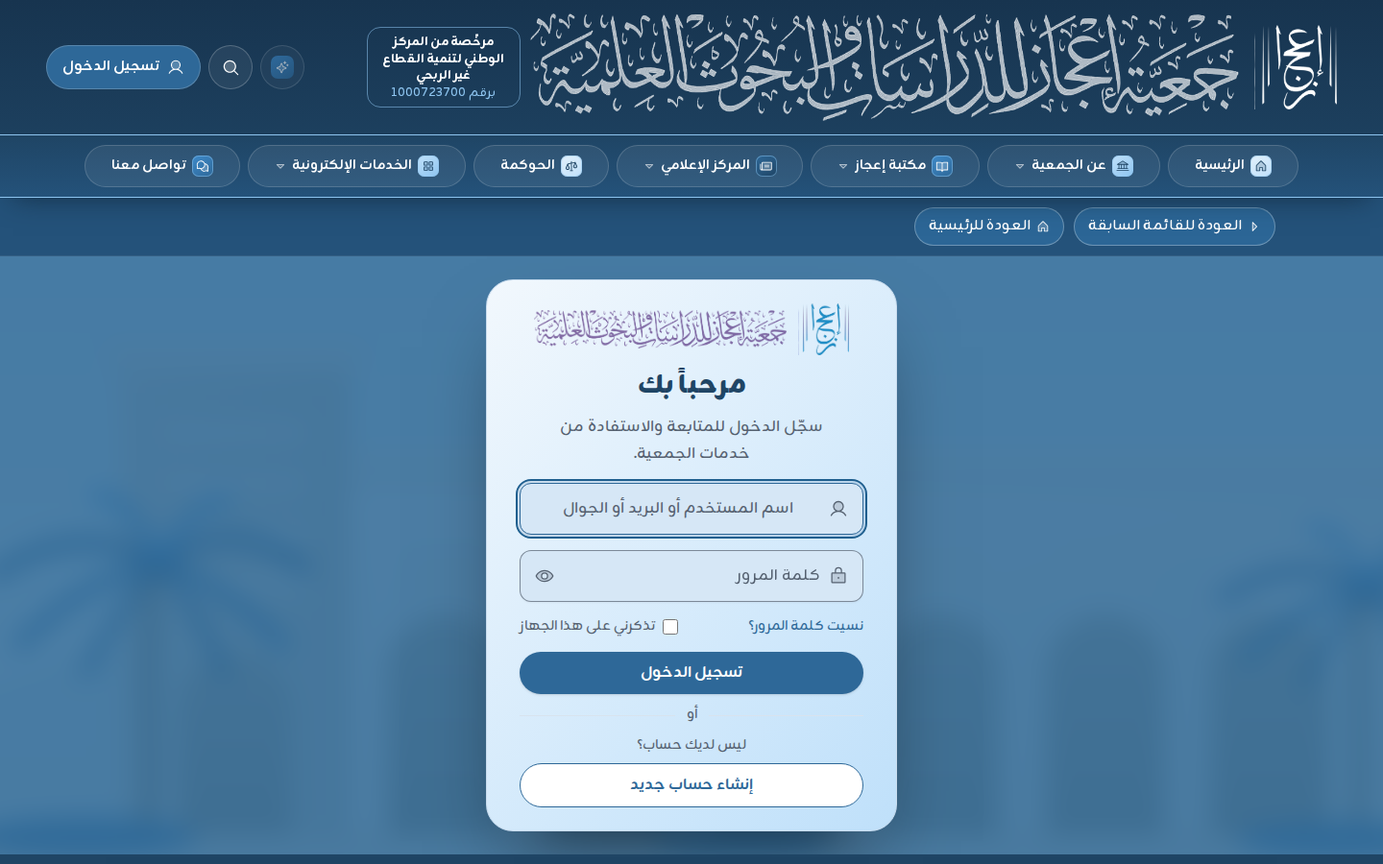
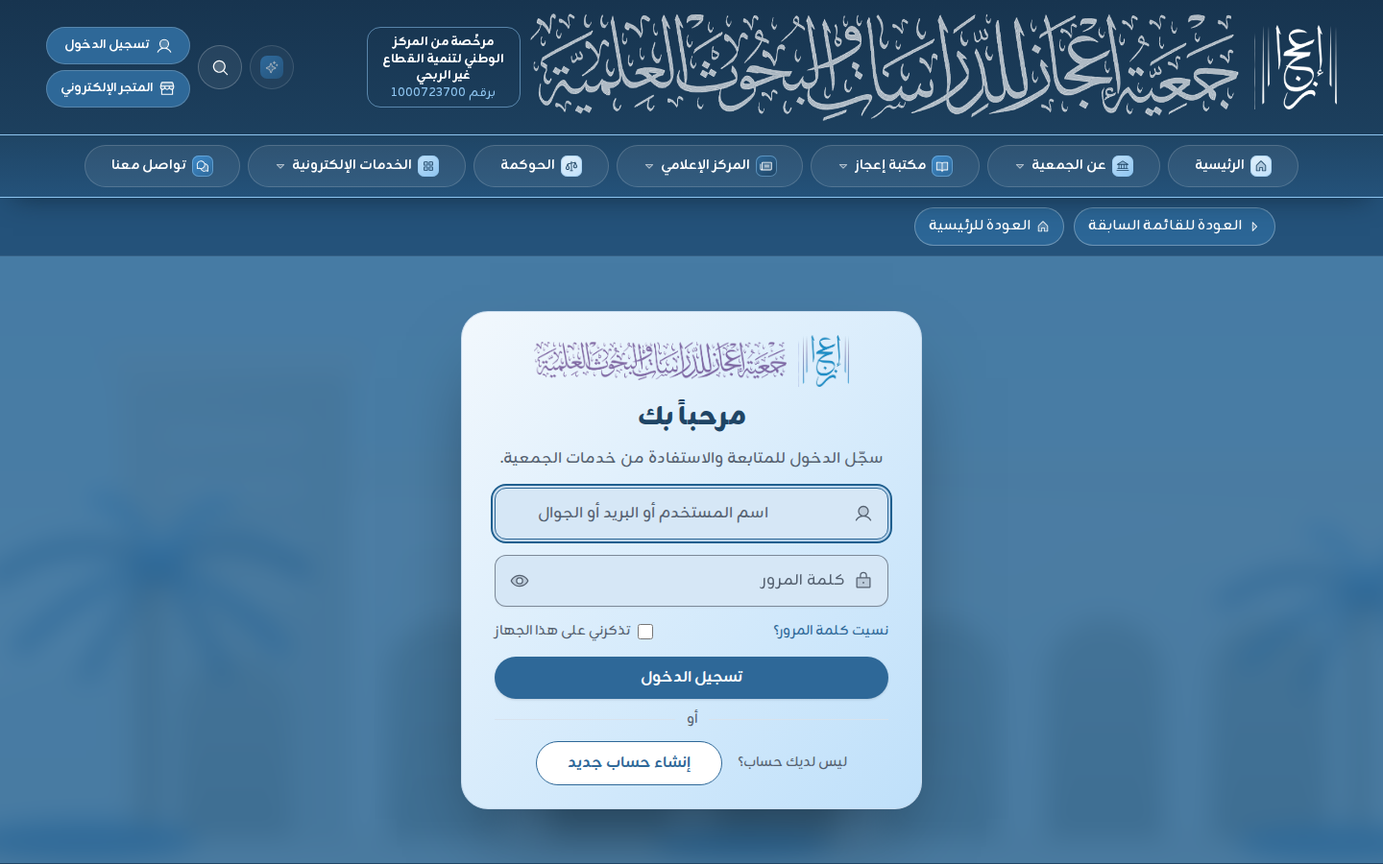
fix(ui): supervisor review of #181 (C1, I1-I3, lows), after merging main
- C1: initiatives come from the About anchors seeder (#177) alone; MenuSections::about removed.
- I1: browser specs follow the new programmes bar and initiatives placement.
- I2: decisions.md and roadmap.md back to main; the decision file holds it all.
- I3: the auth card is centred in the space under the header, fits 1366x768 (no card logo on
  short screens, wider card, inline sign-up row).
- L1 301 for /programs?page=N, L3 hide empty types with one empty state, L4 @navigate and
  sr-only type on "view all", L5 drop the unused initiatives label and fix the comment, L7 exact
  PER_SECTION test.

Changed region(s): [[0.0, 0.3111, 1.0, 1.0], [0.0312, 0.0311, 0.2188, 0.1244]]

diff --git a/resources/css/concept.css b/resources/css/concept.css
@@ -3628,3 +3628,28 @@ html[data-reveal-ready] .portal-chart-line {
         padding-top: 0.75rem;
     }
 }
+
+/* بطاقة الدخول والتسجيل في منتصف المساحة تحت الرأس على الحاسوب (ملاحظات المدير التنفيذي، 4 نوفمبر 2026 — مراجعة المشرف على #181، I3):
+   الرأس وشريط العودة نحو 16.75rem (261 بكسل على 1366 و267 على 1440)، فالمسرح بارتفاع ما بقي من الشاشة والبطاقة في وسطه. وعلى
+   الشاشة القصيرة (1366×768) يُخفى شعار البطاقة وحده، والشعار في الرأس فوقها، فتبقى البطاقة كلها في الشاشة */
+@media (min-width: 64rem) {
+    .auth-stage {
+        display: flex;
+        align-items: center;
+        min-height: calc(100svh - 16.75rem);
+    }
+
+    .auth-stage > div {
+        flex: 1;
+    }
+}
+
+@media (min-width: 64rem) and (max-height: 52rem) {
+    .auth-stage [data-auth-logo] {
+        display: none;
+    }
+
+    .auth-stage [data-auth-card] h1 {
+        margin-top: 0;
+    }
+}

diff --git a/tests/Feature/DirectorNotes/DirectorNotesNov4Test.php b/tests/Feature/DirectorNotes/DirectorNotesNov4Test.php
@@ -8,6 +8,8 @@ use App\Models\ProgramType;
 use App\Support\ContentCache;
 use App\Support\MenuLink;
 use App\Support\MenuSections;
+use Database\Seeders\AboutMenuAnchorsSeeder;
+use Database\Seeders\MenuSeeder;
 use Database\Seeders\ProgramTypesSeeder;
 
 /*
@@ -21,51 +23,69 @@ it('draws one icon bar on the programs page: each type jumps to its section on t
     $types = ProgramType::query()->ordered()->get();
     Program::factory()->for($types[0], 'type')->create(['title' => 'دورة أولى']);
     Program::factory()->for($types[1], 'type')->create(['title' => 'مجلس أول']);
+    Program::factory()->unpublished()->for($types[2], 'type')->create(['title' => 'كتاب غير منشور']);
 
     $html = (string) $this->get('/programs')->assertOk()->getContent();
     $bar = (string) str($html)->after('data-programs-bar')->before('</nav>');
 
-    // الشريط: مرساة لكل نوع بترتيب اللوحة، بلا تحميل صفحة (لا wire:navigate)، ثم المسابقات إلى صفحتها
+    // الشريط: مرساة لكل نوع فيه برنامج منشور بترتيب اللوحة، بلا تحميل صفحة (لا wire:navigate)، ثم المسابقات إلى صفحتها
     preg_match_all('/data-programs-bar-item="([^"]+)"/', $bar, $items);
-    expect($items[1])->toBe([...$types->pluck('slug')->all(), 'competitions'])
+    expect($items[1])->toBe([$types[0]->slug, $types[1]->slug, 'competitions'])
         ->and($bar)->toContain('href="#programs-'.$types[0]->slug.'"')
         ->not->toMatch('/href="#[^"]*"[^>]*wire:navigate/')
         ->toContain('href="'.route('competitions.index').'"')
         // والشريطان السابقان (التبويبات وبطاقات المحور) لم يبقيا
         ->and($html)->not->toContain('class="tab-pill"')->not->toContain(route('programs.index', ['type' => $types[0]->slug]));
 
-    // مقطع لكل نوع بمعرّف مرساته، فيه برامجه وحدها، والفارغ برسالته
-    foreach ($types as $type) {
-        expect($html)->toContain('id="programs-'.$type->slug.'"');
-    }
+    // مقطع لكل نوع فيه برنامج منشور بمعرّف مرساته، فيه برامجه وحدها، والنوع الفارغ (أو بغير المنشور وحده) لا يظهر (مراجعة المشرف على #181، L3)
     $first = (string) str($html)->after('data-programs-section="'.$types[0]->slug.'"')->before('</section>');
-    expect($first)->toContain('دورة أولى')->not->toContain('مجلس أول')
-        ->and((string) str($html)->after('data-programs-section="'.$types[2]->slug.'"')->before('</section>'))->toContain(__('programs.hub.empty'));
+    expect($html)->toContain('id="programs-'.$types[0]->slug.'"')->toContain('id="programs-'.$types[1]->slug.'"')
+        ->not->toContain('id="programs-'.$types[2]->slug.'"')->not->toContain($types[2]->name)
+        ->and($first)->toContain('دورة أولى')->not->toContain('مجلس أول');
+});
+
+it('shows one empty state, and the competitions tile alone, when no type has a published programme', function () {
+    $this->seed(ProgramTypesSeeder::class);
+
+    $html = (string) $this->get('/programs')->assertOk()->getContent();
+    preg_match_all('/data-programs-bar-item="([^"]+)"/', (string) str($html)->after('data-programs-bar')->before('</nav>'), $items);
+
+    expect($items[1])->toBe(['competitions'])
+        ->and($html)->not->toContain('data-programs-section')->toContain(__('programs.list.empty'));
 });
 
 it('shows up to six programmes per section with «view all» to the type list, which keeps its pagination and bar', function () {
     $type = ProgramType::factory()->create(['slug' => 'many', 'name' => 'كثيرة']);
     Program::factory()->count(ProgramController::PER_SECTION + 1)->for($type, 'type')->create();
+    $exact = ProgramType::factory()->create(['slug' => 'exact', 'name' => 'بعدد المقطع']);
+    Program::factory()->count(ProgramController::PER_SECTION)->for($exact, 'type')->create();
 
     $html = (string) $this->get('/programs')->assertOk()->getContent();
     $section = (string) str($html)->after('data-programs-section="many"')->before('</section>');
+    $full = (string) str($html)->after('data-programs-section="exact"')->before('</section>');
 
+    // «عرض الكل» باسم نوعه لقارئ الشاشة (L4)، ولا «عرض الكل» لنوع بعدد المقطع بالضبط (L7)
     expect(substr_count($section, '<article class="tone-card'))->toBe(ProgramController::PER_SECTION)
-        ->and($section)->toContain(route('programs.index', ['type' => 'many']));
+        ->and($section)->toContain(route('programs.index', ['type' => 'many']))->toContain('<span class="sr-only">كثيرة</span>')
+        ->and(substr_count($full, '<article class="tone-card'))->toBe(ProgramController::PER_SECTION)
+        ->and($full)->not->toContain(route('programs.index', ['type' => 'exact']))->not->toContain(__('site.view_all'));
 
     // قائمة النوع: برامجه كلها، والشريط يعود إلى مقاطع الصفحة الأم، والنوع النشط معلَّم
     $list = (string) $this->get('/programs?type=many')->assertOk()->getContent();
     expect($list)->toContain('href="'.route('programs.index').'#programs-many"')->toContain('aria-current="page"');
 
-    $this->get('/programs?page=2')->assertNotFound();
+    // والترقيم القديم للصفحة كلها تحويل دائم إليها (L1)، وبطاقة المسابقات بالتنقّل السريع القائم (@navigate — L4)
+    $this->get('/programs?page=2')->assertStatus(301)->assertRedirect(route('programs.index'));
     $this->get('/programs?type[]=many')->assertRedirect(route('programs.index'));
+    expect($html)->toMatch('/href="'.preg_quote(route('competitions.index'), '/').'" wire:navigate data-programs-bar-item="competitions"/');
 });
 
-it('moves initiatives out of the e-services (page, dropdown and home strip) into the About dropdown', function () {
+it('moves initiatives out of the e-services (page, dropdown and home strip) into the About dropdown, once and last', function () {
     expect(array_column(MenuSections::availableServices(), 'route'))->not->toContain('initiatives.index')
         ->and(array_column(MenuSections::for('/services'), 'url'))->not->toContain('/initiatives')
         ->and(BuildHomePage::SHORTCUTS)->not->toHaveKey('initiatives')
-        ->and(MenuSections::for('/about'))->toBe([['label' => __('content.initiatives.title'), 'url' => '/initiatives']])
+        // مكانها في «عن الجمعية» من بذرة مراسيها وحدها (AboutMenuAnchorsSeeder — #177)، لا قسم مولَّد (مراجعة المشرف على #181، C1)
+        ->and(MenuSections::for('/about'))->toBe([])
         ->and(MenuLink::CURRENT_IN['about'])->toBe(['initiatives'])
         ->and(MenuLink::CURRENT_IN['services'])->not->toContain('initiatives');
 
@@ -75,12 +95,22 @@ it('moves initiatives out of the e-services (page, dropdown and home strip) into
     expect((string) str((string) $this->get('/')->getContent())->after('id="home-services-track"')->before('</section>'))
         ->not->toContain(route('initiatives.index'));
 
-    // في القائمة المنسدلة لعنصر «عن الجمعية» بعد الصفحة الأم، وعناصر المحرر بعدها كما هي
-    $children = MenuSections::children(['label' => 'عن الجمعية', 'url' => '/about', 'children' => [
-        ['id' => 3, 'label' => 'عن الجمعية', 'url' => '/about', 'opens_in_new_tab' => false],
-        ['id' => 4, 'label' => 'شهادة ترخيص الجمعية', 'url' => '/governance/license-certificate', 'opens_in_new_tab' => false],
-    ]]);
-    expect(array_column($children, 'url'))->toBe(['/about', '/initiatives', '/governance/license-certificate']);
+    // القائمة المعروضة بالترتيب النهائي، و«المبادرات» مرة واحدة آخر مراسي «عن الجمعية»، على الحاسوب وفي قائمة الجوال
+    (new MenuSeeder)->run();
+    (new AboutMenuAnchorsSeeder)->run();
+    Page::query()->where('slug', Page::ABOUT)->exists() || Page::factory()->create(['slug' => Page::ABOUT]);
+    ContentCache::flush();
+    $html = (string) $this->get('/')->assertOk()->getContent();
+
+    foreach ([(string) str($html)->after('data-main-nav')->before('id="mobile-menu"'), (string) str($html)->after('id="mobile-menu"')->before('</nav>')] as $menu) {
+        $positions = array_map(fn (array $item): int|false => strpos($menu, ltrim($item[1], '/').'"'), AboutMenuAnchorsSeeder::ITEMS);
+        $sorted = $positions;
+        sort($sorted);
+
+        expect($positions)->not->toContain(false)->toBe($sorted)
+            ->and(substr_count($menu, 'المبادرات'))->toBe(1)
+            ->and($menu)->not->toContain('href="'.route('initiatives.index').'"');
+    }
 });
 
 it('shows the inquiries intro once on the contact page, since it is the second hero paragraph', function () {

diff --git a/app/Http/Controllers/ProgramController.php b/app/Http/Controllers/ProgramController.php
@@ -43,7 +43,10 @@ class ProgramController extends Controller
         // بلا نوع: مقطع لكل نوع في الصفحة نفسها، وشريط الأيقونات يُنزل إليه (ملاحظات المدير التنفيذي، 4 نوفمبر 2026). والنوع
         // بقائمته الكاملة المرقّمة في ?type= لـ«عرض الكل» والروابط القديمة
         if ($active === null) {
-            abort_if($request->integer('page', 1) > 1, 404);
+            // والترقيم القديم للصفحة كلها (?page=) صار مقاطع في صفحة واحدة: تحويل دائم إليها (مراجعة المشرف على #181، L1)
+            if ($request->has('page')) {
+                return redirect()->route('programs.index', status: 301);
+            }
 
             // استعلام واحد لكل الأنواع مهما كثرت: ترتيب البرنامج في نوعه (row_number)، وواحد زائد على المقطع يُظهر «عرض الكل»
             $ranked = Program::query()->published()->withConfirmedCount()
@@ -51,13 +54,14 @@ class ProgramController extends Controller
             $byType = Program::query()->fromSub($ranked, 'programs')->where('section_rank', '<=', self::PER_SECTION + 1)
                 ->orderByRaw(self::ORDER)->get()->groupBy('program_type_id');
 
-            $sections = $types->map(fn (ProgramType $programType): array => [
+            // النوع بلا برنامج منشور لا يظهر في الشريط ولا مقطع له، كتصنيفات الحوكمة الفارغة (L3)
+            $shown = $types->filter(fn (ProgramType $programType): bool => $byType->has($programType->id))->values();
+            $sections = $shown->map(fn (ProgramType $programType): array => [
                 'type' => $programType,
-                'programs' => ($byType->get($programType->id) ?? new Collection)
-                    ->each(fn (Program $program) => $program->setRelation('type', $programType)),
+                'programs' => $byType->get($programType->id, new Collection)->each(fn (Program $program) => $program->setRelation('type', $programType)),
             ]);
 
-            return view('programs.index', ['types' => $types, 'active' => null, 'sections' => $sections, 'programs' => null]);
+            return view('programs.index', ['types' => $shown, 'active' => null, 'sections' => $sections, 'programs' => null]);
         }
 
         $programs = self::listing()->where('program_type_id', $active->id)->paginate(self::PER_PAGE)->withQueryString();
@@ -66,6 +70,9 @@ class ProgramController extends Controller
 
         // نوع كل برنامج من النوع المحمّل، لا باستعلام ثانٍ عنه
         $programs->each(fn (Program $program) => $program->setRelation('type', $active));
+        // والشريط بالأنواع التي فيها برنامج منشور كالصفحة الأم، والنوع النشط معها
+        $used = Program::query()->published()->distinct()->pluck('program_type_id');
+        $types = $types->filter(fn (ProgramType $programType): bool => $used->contains($programType->id) || $programType->is($active))->values();
 
         return view('programs.index', ['types' => $types, 'active' => $active, 'sections' => null, 'programs' => $programs]);
     }

diff --git a/resources/views/programs/index.blade.php b/resources/views/programs/index.blade.php
@@ -28,7 +28,7 @@
                         </li>
                     @endforeach
                     <li class="tone-card">
-                        <a href="{{ route('competitions.index') }}" wire:navigate data-programs-bar-item="competitions"
+                        <a href="{{ route('competitions.index') }}" @navigate(route('competitions.index')) data-programs-bar-item="competitions"
                             class="group flex h-full flex-col items-center gap-2 rounded-[1.25rem] p-3 text-center sm:p-4">
                             <x-icon-tile icon="trophy" size="sm" />
                             <span class="text-sm font-black sm:text-base">{{ __('programs.hub.competitions') }}</span>
@@ -62,22 +62,21 @@
                     {{ $programs->links('partials.pagination') }}
                 @endif
             @else
-                @foreach ($sections as $section)
+                {{-- مقطع لكل نوع فيه برنامج منشور (الفارغ لا يظهر — ProgramController)، وبلا نوع حالة فارغة واحدة --}}
+                @forelse ($sections as $section)
                     @php($id = $anchor($section['type']))
                     <section id="{{ $id }}" aria-labelledby="{{ $id }}-title" class="mt-12 scroll-mt-48" data-programs-section="{{ $section['type']->slug }}">
-                        <x-section-header id="{{ $id }}-title" :title="$section['type']->name" :icon="$section['type']->icon()"
+                        <x-section-header id="{{ $id }}-title" :title="$section['type']->name" :icon="$section['type']->icon()" :link-context="$section['type']->name"
                             :href="$section['programs']->count() > $perSection ? route('programs.index', ['type' => $section['type']->slug]) : null" />
-                        @if ($section['programs']->isEmpty())
-                            <p class="mt-4 text-muted">{{ __('programs.hub.empty') }}</p>
-                        @else
-                            <ul class="mt-6 grid gap-6 sm:grid-cols-2 lg:grid-cols-3" data-reveal-group>
-                                @foreach ($section['programs']->take($perSection) as $program)
-                                    <li>@include('programs.card', ['program' => $program])</li>
-                                @endforeach
-                            </ul>
-                        @endif
+                        <ul class="mt-6 grid gap-6 sm:grid-cols-2 lg:grid-cols-3" data-reveal-group>
+                            @foreach ($section['programs']->take($perSection) as $program)
+                                <li>@include('programs.card', ['program' => $program])</li>
+                            @endforeach
+                        </ul>
                     </section>
-                @endforeach
+                @empty
+                    <x-empty-state icon="academic-cap" :message="__('programs.list.empty')" class="mt-10" />
+                @endforelse
             @endif
         </div>
     </section>

diff --git a/tests/Feature/Content/HomeExecutiveDirectorTest.php b/tests/Feature/Content/HomeExecutiveDirectorTest.php
@@ -11,6 +11,7 @@ use App\Filament\Resources\Partners\PartnerResource;
 use App\Jobs\FetchHomeVideoThumbnail;
 use App\Models\LibraryItem;
 use App\Models\Partner;
+use App\Models\Program;
 use App\Models\ProgramType;
 use App\Models\Setting;
 use Database\Seeders\ProgramTypesSeeder;
@@ -106,8 +107,10 @@ it('hides the videos and accounts sections when switched off', function () {
 
 it('opens the courses and programs hub with training courses, scientific councils and competitions', function () {
     $this->seed(ProgramTypesSeeder::class);
+    // شريط واحد بمراسٍ في الصفحة نفسها بالأنواع التي فيها برنامج منشور (ملاحظات المدير التنفيذي، 4 نوفمبر 2026 — DirectorNotesNov4Test)
+    $council = Program::factory()->for(ProgramType::query()->where('slug', 'scientific-councils')->sole(), 'type')->create();
+    Program::factory()->for(ProgramType::query()->where('slug', 'training-courses')->sole(), 'type')->create();
 
-    // شريط واحد بمراسٍ في الصفحة نفسها (ملاحظات المدير التنفيذي، 4 نوفمبر 2026 — DirectorNotesNov4Test)
     $this->get('/programs')->assertOk()
         ->assertSeeInOrder(['<h1', 'الدورات والبرامج'], false)
         ->assertSee('الدورات التدريبية')
@@ -120,7 +123,8 @@ it('opens the courses and programs hub with training courses, scientific council
     ProgramType::query()->where('slug', 'training-courses')->update(['name' => 'دورات معدّلة']);
     $this->get('/programs')->assertOk()->assertSee('دورات معدّلة');
 
-    ProgramType::query()->where('slug', 'scientific-councils')->delete();
+    // ونوع بلا برنامج منشور لا يظهر
+    $council->update(['is_published' => false]);
 
     $this->get('/programs')->assertOk()->assertDontSee('#programs-scientific-councils', false);
 });

diff --git a/resources/views/components/section-header.blade.php b/resources/views/components/section-header.blade.php
@@ -1,11 +1,15 @@
-{{-- عنوان القسم يميناً، و«عرض الكل» بسهم يساراً متى كان للقسم صفحة (المرجع البصري 07) --}}
-@props(['title', 'href' => null, 'linkLabel' => null])
+{{-- عنوان القسم يميناً، و«عرض الكل» بسهم يساراً متى كان للقسم صفحة (المرجع البصري 07). وlinkContext: ما يميّز الرابط لقارئ الشاشة
+     حين يتكرر «عرض الكل» في الصفحة (اسم النوع في «الدورات والبرامج») --}}
+@props(['title', 'href' => null, 'linkLabel' => null, 'linkContext' => null])
 
 <div class="flex items-end justify-between gap-4">
     <x-section-heading :attributes="$attributes">{{ $title }}</x-section-heading>
     @if ($href)
         <a href="{{ $href }}" @navigate($href) class="inline-flex items-center gap-1 text-sm font-semibold text-primary hover:text-primary-dark">
             {{ $linkLabel ?? __('site.view_all') }}
+            @if (filled($linkContext))
+                <span class="sr-only">{{ $linkContext }}</span>
+            @endif
             {{ \App\Support\Icon::svg('arrow-left', 'size-4', ['aria-hidden' => 'true']) }}
         </a>
     @endif

diff --git a/app/Support/MenuSections.php b/app/Support/MenuSections.php
@@ -31,7 +31,6 @@ final class MenuSections
             'media' => self::media(),
             'governance' => self::governance(),
             'services' => self::services(),
-            'about' => self::about(),
             default => [],
         };
     }
@@ -146,16 +145,6 @@ final class MenuSections
             fn (DocumentCategory $category): array => ['label' => (string) $category->getLabel(), 'url' => '/governance?category='.$category->value],
             array_filter(DocumentCategory::cases(), fn (DocumentCategory $category): bool => in_array($category->value, $used, true)),
         ));
-    }
-
-    /**
-     * «المبادرات» في «عن الجمعية» لا في «الخدمات الإلكترونية» (ملاحظات المدير التنفيذي، 4 نوفمبر 2026).
-     *
-     * @return list<array{label: string, url: string}>
-     */
-    private static function about(): array
-    {
-        return Route::has('initiatives.index') ? [['label' => (string) __('content.initiatives.title'), 'url' => '/initiatives']] : [];
     }
 
     /**

diff --git a/config/eservices.php b/config/eservices.php
@@ -13,7 +13,7 @@ return [
 
     'tiles' => [
         // «الخدمات الإلكترونية» تضم الدورات والبرامج والمسابقات (البند R4)، ثم الاستفسارات (Final-Services، النسخة 63). والمبادرات في «عن الجمعية»
-        // لا هنا (ملاحظات المدير التنفيذي، 4 نوفمبر 2026 — MenuSections::about)
+        // لا هنا: مرساتها الأخيرة في قائمتها من بذرة AboutMenuAnchorsSeeder (ملاحظات المدير التنفيذي، 4 نوفمبر 2026)
         ['route' => 'programs.index', 'label' => 'ui.inner.services.programs', 'icon' => 'academic-cap', 'symbol' => 'programs'],
         ['route' => 'competitions.index', 'label' => 'ui.inner.services.competitions', 'icon' => 'trophy', 'symbol' => 'competitions'],
         ['route' => 'contact', 'label' => 'ui.inner.services.inquiries', 'icon' => 'chat-bubble-left-right', 'symbol' => 'inquiries'],

diff --git a/tests/Feature/Programs/LibraryProgramTest.php b/tests/Feature/Programs/LibraryProgramTest.php
@@ -78,7 +78,12 @@ function progressFor(User $user, LibraryItem $item, array $attributes): LibraryP
     return LibraryProgress::query()->forceCreate(['user_id' => $user->id, 'library_item_id' => $item->id, 'last_reported_at' => now(), ...$attributes]);
 }
 
-it('seeds the three library program types, so the programs page has six tabs from data', function () {
+it('seeds the three library program types, shown on the programs bar from data once each has a programme', function () {
+    // والنوع بلا برنامج منشور لا يظهر في الشريط (مراجعة المشرف على #181، L3)
+    foreach (ProgramType::query()->ordered()->get() as $type) {
+        Program::factory()->for($type, 'type')->create();
+    }
+
     $this->get(route('programs.index'))->assertOk()
         ->assertSeeInOrder(['الدورات التدريبية', 'المجالس العلمية', 'قراءة الكتب', 'الاستماع', 'المشاهدة']);
 

diff --git a/tests/Feature/DirectorNotes/DirectorNotesNov1Test.php b/tests/Feature/DirectorNotes/DirectorNotesNov1Test.php
@@ -270,8 +270,7 @@ it('keeps every editor item of a dropdown, even one sharing the parent link, and
         ['id' => 3, 'label' => 'اللوائح والسياسات', 'url' => '/governance?category=policies', 'opens_in_new_tab' => false],
     ]]);
 
-    // و«المبادرات» قسم مولَّد بعد الأم منذ انتقالها من الخدمات (ملاحظات المدير التنفيذي، ليلة 4 نوفمبر 2026)
-    expect(array_column($children, 'label'))->toBe(['عن الجمعية', 'المبادرات', 'التوجه الاستراتيجي', 'اللوائح والسياسات'])
+    expect(array_column($children, 'label'))->toBe(['عن الجمعية', 'التوجه الاستراتيجي', 'اللوائح والسياسات'])
         ->and($children[0]['is_parent'] ?? false)->toBeTrue();
 });
 

diff --git a/resources/views/auth/login.blade.php b/resources/views/auth/login.blade.php
@@ -23,6 +23,9 @@
 
     <x-or-divider class="my-5 lg:my-3" />
 
-    <p class="mb-3 text-center text-sm text-muted lg:mb-2">{{ __('account.login.no_account') }}</p>
-    <x-button variant="outline" :href="route('register')" class="w-full">{{ __('account.login.create_account') }}</x-button>
+    {{-- على الحاسوب «ليس لديك حساب؟» والزر في سطر واحد، فتبقى البطاقة في الشاشة (مراجعة المشرف على #181، I3) --}}
+    <div class="lg:flex lg:items-center lg:justify-center lg:gap-4">
+        <p class="mb-3 text-center text-sm text-muted lg:mb-0">{{ __('account.login.no_account') }}</p>
+        <x-button variant="outline" :href="route('register')" class="w-full lg:w-auto lg:px-8">{{ __('account.login.create_account') }}</x-button>
+    </div>
 </x-layouts.auth>

diff --git a/tests/Feature/Programs/ProgramsTest.php b/tests/Feature/Programs/ProgramsTest.php
@@ -36,7 +36,8 @@ it('lists published programs with type tabs, status badges and the register butt
 
     $this->get('/programs?type=research')->assertOk()->assertSee('برنامج بحثي')->assertDontSee('مهارات البحث');
     $this->get('/programs?type=unknown')->assertRedirect(route('programs.index'));
-    $this->get('/programs?page=5')->assertNotFound();
+    // والترقيم القديم للصفحة كلها تحويل دائم إليها (مراجعة المشرف على #181، L1)
+    $this->get('/programs?page=5')->assertStatus(301)->assertRedirect(route('programs.index'));
     $this->get('/programs/research-skills')->assertOk()->assertSee('مهارات البحث');
     $this->get('/programs/'.Program::where('title', 'برنامج مخفي')->value('slug'))->assertNotFound();
 });
